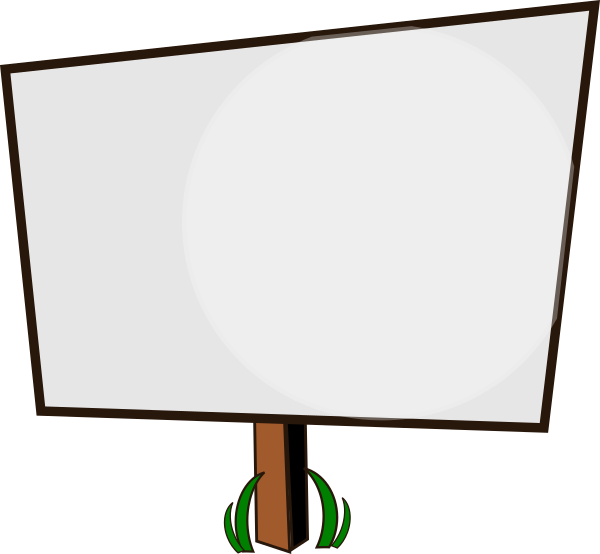
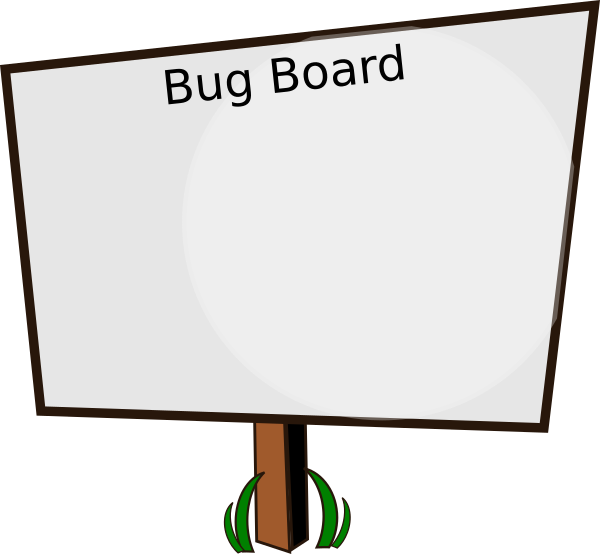
Increased Board size and move HUD

Changed region(s): [[0.45, 0.0614, 0.69, 0.1841], [0.27, 0.1227, 0.42, 0.2148]]

diff --git a/src/sceneMain.ts b/src/sceneMain.ts
@@ -5,7 +5,7 @@ export class SceneMain extends Phaser.Scene {
     colors = ['blue', 'green', 'magenta', 'purple', 'red'];
     healthyBugs: Bug[] = [];
     bugsFalling: BugFalling[] = [];
-    bugBoardBoundary = new Phaser.Geom.Rectangle(380, 150, 400, 250);
+    bugBoardBoundary = new Phaser.Geom.Rectangle(340, 100, 600, 300);
     team = 'All Bugs';
     model: IModel = { bugs: []}
   
@@ -46,21 +46,22 @@ export class SceneMain extends Phaser.Scene {
     async create(): Promise<void> {
       var backdrop = this.add.image(0, 0, 'backdrop');
       backdrop.setOrigin(0, 0);
-      this.add.image(600, 280, 'bugboard');
+      const bugBoard = this.add.image(650, 300, 'bugboard');
+      bugBoard.setScale(1.2);
       const apiResults = await this.getNumberOfBugs();
 
       const filteredResults: IAPIResult = {
           bugs:apiResults.bugs.filter( b => this.team === 'All Bugs' || this.team === b.team)
       };
 
-      const text = this.add.text(460,80,
-        `'${this.team}' Bug Board` +
-        "\n" +
-        "Population " + filteredResults.bugs.length);
+      const text = this.add.text(10,10,
+        this.team +
+        "\nPopulation: " + filteredResults.bugs.length +
+        "\nClosed Today: " + filteredResults.bugs.filter( b => b.status === 'Closed' || b.status === 'Released').length        
+        );
       text.setColor("Black");
       text.setFont("Emmett");
-      text.setFontSize(30);
-      text.setAngle(-5);
+      text.setFontSize(24);
 
       this.model = this.mapResultToModel(filteredResults);
       for (var bugIndex = 0; bugIndex < filteredResults.bugs.length; bugIndex++) {
@@ -79,10 +80,10 @@ export class SceneMain extends Phaser.Scene {
         const assignee = x.assignee;
         let severity = 0;
         switch( x.priority){
-          case 'Critical':
+          case 'Blocker':
             severity = 1;
             break;
-          case 'Blocker':
+          case 'Critical':
             severity = 2;
             break;
           case 'Major':
@@ -98,7 +99,7 @@ export class SceneMain extends Phaser.Scene {
         return {
           assignee: x.assignee,
           id: x.key,
-          fixed: x.status === 'Closed' || x.status === 'Fixed',
+          fixed: x.status === 'Closed' || x.status === 'Released',
           severity,
           date: x.updated, 
           team: x.team       

diff --git a/src/bugFalling.ts b/src/bugFalling.ts
@@ -30,7 +30,7 @@ export class BugFalling extends Phaser.Physics.Arcade.Sprite {
         this.fallSpeed += 10;
   
         this.y += (this.vector.y / 1000) * (delta * this.fallSpeed);
-        const splatHeight = Number(this.sceneMain.game.config.height) - 150.0;
+        const splatHeight = Number(this.sceneMain.game.config.height) - 80.0;
   
         if( this.y > splatHeight){
           this.splat();
